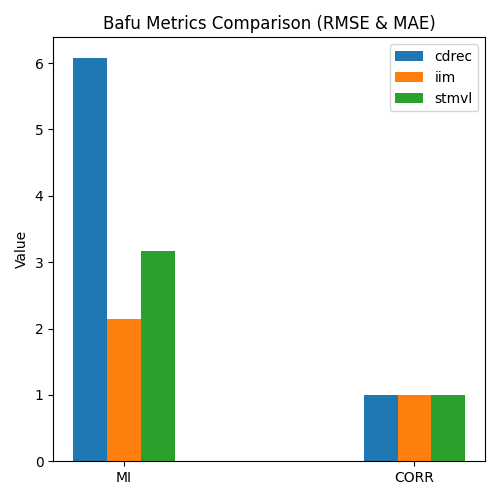
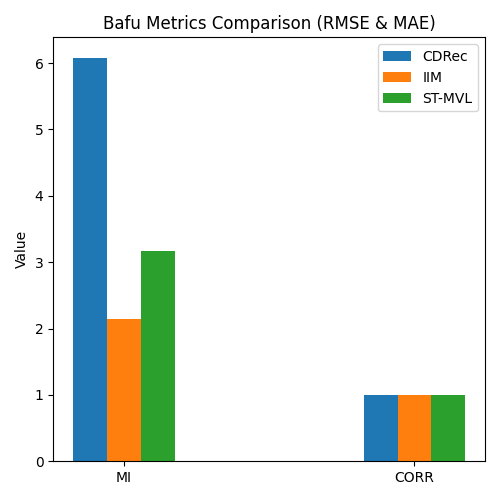
Experiment: Update plots with better labels

Changed region(s): [[0.75, 0.09, 0.96, 0.21]]

diff --git a/Optimizer/plotter.py b/Optimizer/plotter.py
@@ -4,6 +4,8 @@ from typing import List
 import numpy as np
 import matplotlib.pyplot as plt
 
+from Optimizer import util
+
 LOWER_IS_BETTER = {'rmse', 'mae', 'time_taken'}  # Add other metrics to this set if needed
 ONE_IS_BEST = ["corr"]
 
@@ -284,7 +286,7 @@ def plot_best_algorithm_by_dataset_old(optimized_file_path: str, title_prefix: s
 
         for idx, algorithm in enumerate(algorithms):
             algorithm_values = [best_config_dict[dataset][algorithm][metric] for metric in metrics]
-            ax.bar(positions[idx], algorithm_values, width, label=algorithm)
+            ax.bar(positions[idx], algorithm_values, width, label=util.mapper(algorithm))
 
         metric_display_labels = ["Time [s]" if metric == "time_taken" else metric.upper() for metric in metrics]
 
@@ -352,7 +354,7 @@ def plot_best_algorithm_by_dataset(optimized_paths: List[str], algorithm_names: 
 
         for idx, (algorithm, algo_values) in enumerate(dataset_values.items()):
             metric_values = [algo_values[metric] for metric in metrics]
-            rects = ax.bar(ind + width * idx, metric_values, width, label=algorithm)
+            rects = ax.bar(ind + width * idx, metric_values, width, label=util.mapper(algorithm))
 
         # Adjust the y-labels based on metrics
         metric_display_labels = ["Time [s]" if metric == "time_taken" else metric.upper() for metric in metrics]
@@ -416,25 +418,30 @@ def plot_metrics(dataset, metric_used_for_optimization, algorithms_data, metrics
     fig, ax = plt.subplots(figsize=(10 * width_factor, 5))
     for idx, (algorithm, algo_values) in enumerate(algorithms_data.items()):
         metric_values = [algo_values[metric] for metric in metrics_to_use]
-        rects = ax.bar(ind + width * idx, metric_values, width, label=algorithm)
+        rects = ax.bar(ind + width * idx, metric_values, width, label=util.mapper(algorithm))
 
     metric_display_labels = ["Time [s]" if metric == "time_taken" else metric.upper() for metric in metrics_to_use]
 
     ax.set_ylabel('Value')
     ax.set_title(f'{dataset.title()} Metrics Comparison ({metric_used_for_optimization.upper().replace("_", " & ")})')
-    ax.set_xticks(ind + width * (len(algorithms_data) - 1) / 2)
-    ax.set_xticklabels(metric_display_labels)
+
 
     if log_scale:
         ax.set_yscale('log')
-        ax.set_ylabel('Log(Value)')  # Adjusting the y-label to reflect the log scale
+        ax.set_ylabel('Time [s]')  # Adjusting the y-label to reflect the log scale
+        ax.set_xticks([],[])
+        ax.set_xticklabels("")
+    else:
+        ax.set_xticks(ind + width * (len(algorithms_data) - 1) / 2)
+        ax.set_xticklabels(metric_display_labels)
 
     ax.legend()
 
     plt.tight_layout()
     suffix = "_".join(metrics_to_use)
     plt.savefig(f"figures/dataset/{dataset}_comparison_{metric_used_for_optimization}_{suffix}.png")
-    plt.show()
+    # plt.show()
+    plt.close()
 
 
 if __name__ == '__main__':

diff --git a/Optimizer/util.py b/Optimizer/util.py
@@ -73,6 +73,8 @@ def mapper(input_string: str):
     input_string = input_string.lower()
     if input_string == "cdrec":
         return "CDRec"
+    elif input_string == "iim":
+        return "IIM"
     elif input_string == "mrnn":
         return "M-RNN"
     elif input_string == "stmvl":
